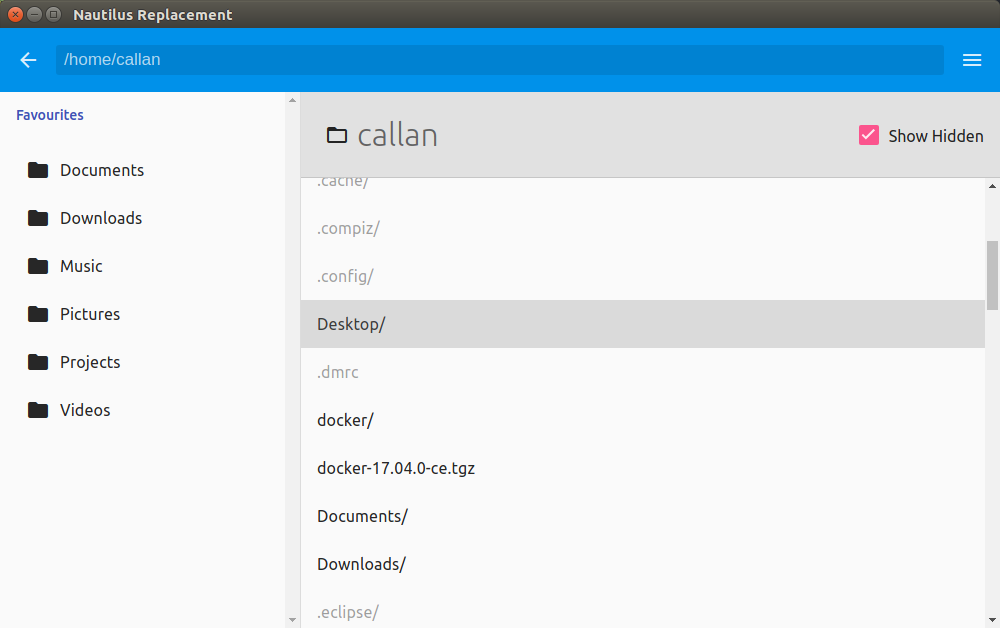
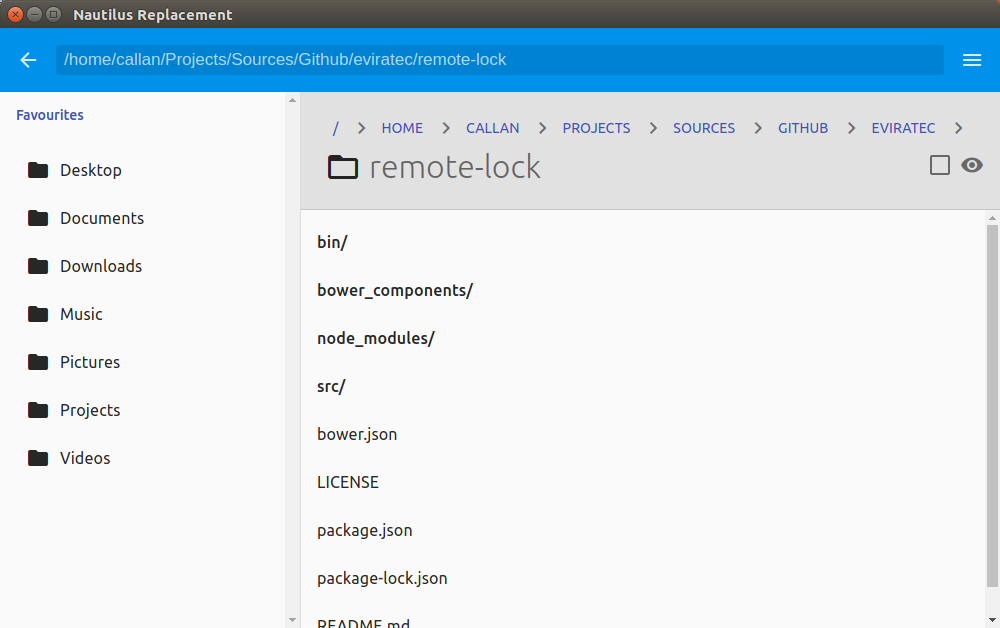
Directory handling improvements - Additional class 'dir-obj' applied to directories in main list - Added 'Desktop' to favourites - Added 'type' property to Directory and File object classes - Added sorting to main list

diff --git a/main.js b/main.js
@@ -79,8 +79,12 @@
   function FileFactory (FileSystemObject) {
 
     class File extends FileSystemObject {
+      static is (obj) {
+        return obj instanceof File;
+      }
       constructor (parentUri, info) {
         super(...arguments);
+        this.type = "application/octet-stream";
       }
     }
 
@@ -94,8 +98,12 @@
   function DirectoryFactory (FileSystemObject) {
 
     class Directory extends FileSystemObject {
+      static is (obj) {
+        return obj instanceof Directory;
+      }
       constructor (parentUri, info) {
         super(...arguments);
+        this.type = "_DIRECTORY";
       }
     }
 
@@ -150,6 +158,7 @@
 
     this.favourites = {
       contents: [
+        new Directory(process.env.HOME, "d Desktop"),
         new Directory(process.env.HOME, "d Documents"),
         new Directory(process.env.HOME, "d Downloads"),
         new Directory(process.env.HOME, "d Music"),
@@ -158,6 +167,10 @@
         new Directory(process.env.HOME, "d Videos"),
       ],
     };
+
+    this.isDirectory = function (directory) {
+      return Directory.is(directory);
+    }
 
     this.handleClick = function ($item, $event) {
       let pathStr = path.resolve($item.uri);

diff --git a/app.html b/app.html
@@ -121,15 +121,17 @@
                 <h1>{{ $w.location.dirname }}</h1>
               </div>
               <md-checkbox ng-model="$w.showHidden" aria-label="Show Hidden">
-                Show Hidden
+                <md-icon class="material-icons">
+                  visibility
+                </md-icon>
               </md-checkbox>
             </header>
             <section style="overflow-y: scroll;overflow-x: hidden;"
               flex>
               <md-list>
-                <md-list-item ng-class="{'hidden-obj': $item.isHidden}"
-                  ng-if="!$item.isHidden || $w.showHidden"
-                  ng-repeat="$item in $w.location.contents"
+                <md-list-item ng-class="{'hidden-obj': $item.isHidden, 'dir-obj': $w.isDirectory($item)}"
+                  ng-if="!$last && ( !$item.isHidden || $w.showHidden )"
+                  ng-repeat="$item in $w.location.contents | orderBy:'type'"
                   ng-click="$w.handleClick($item, $event)">
                   {{ $item.basename }}
                   <span ng-if="$item.info[0] === 'd'">/</span>

diff --git a/style.css b/style.css
@@ -70,3 +70,7 @@ body {
 #appRoot md-content section md-list-item.hidden-obj {
   color: rgba(0,0,0,0.38);
 }
+
+#appRoot md-content section md-list-item.dir-obj {
+  font-family: "Ubuntu Light";
+}
